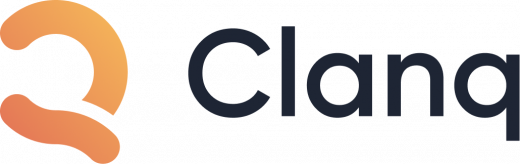
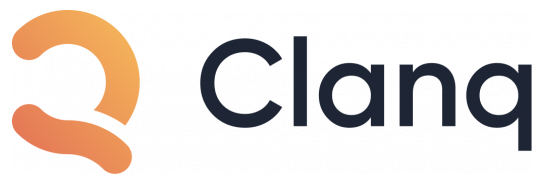
individual background color for footer images

diff --git a/src/app/page.tsx b/src/app/page.tsx
@@ -102,31 +102,37 @@ export default function Home() {
                         src: starrzIcon,
                         alt: 'starrz',
                         href: 'https://starzz.eu/',
+                        background: 'light',
                     },
                     {
                         src: car4sportsIcon,
                         alt: 'Car4Sports',
                         href: 'https://car4sports.de/',
+                        background: 'light',
                     },
                     {
                         src: dsaIcon,
                         alt: 'Deutsche Streaming Allianz',
                         href: 'https://deutsche-streaming-allianz.com/',
+                        background: 'none',
                     },
                     {
                         src: footbaoIcon,
                         alt: 'footbao',
                         href: 'https://play.google.com/store/apps/details?id=world.footbao.footbao&gl=DE',
+                        background: 'light',
                     },
                     {
                         src: clanqIcon,
                         alt: 'Clanq',
                         href: 'https://www.clanq.de/',
+                        background: 'light',
                     },
                     {
                         src: racematesIcon,
                         alt: 'Racemates',
                         href: 'https://racemates-nft.com/',
+                        background: 'none',
                     },
                 ]}
                 footerLinks={[

diff --git a/src/components/Footer.tsx b/src/components/Footer.tsx
@@ -8,7 +8,7 @@ type FooterProps = {
     copyrightHolder: string
     footerLinks: FooterLinksProps[]
     logo?: Icon
-    sponsors?: Icon[]
+    sponsors?: (Icon & { background: 'light' | 'dark' | 'none' })[]
     theme?: 'blue' | 'red' | 'dark'
 }
 
@@ -74,6 +74,7 @@ const Footer: FC<FooterProps> = ({
                                         logo={sponsor}
                                         theme={theme}
                                         key={sponsor.href}
+                                        background={sponsor.background}
                                     />
                                 </li>
                             )
@@ -140,10 +141,11 @@ const FooterColumn: FC<
     )
 }
 
-const Sponsors: FC<SponsorProps & { theme: 'blue' | 'red' | 'dark' }> = ({
-    logo,
-    theme,
-}) => {
+const Sponsors: FC<
+    SponsorProps & { theme: 'blue' | 'red' | 'dark' } & {
+        background: 'light' | 'dark' | 'none'
+    }
+> = ({ background, logo, theme }) => {
     return (
         <div className="px-4 py-2">
             <Link
@@ -151,7 +153,7 @@ const Sponsors: FC<SponsorProps & { theme: 'blue' | 'red' | 'dark' }> = ({
                 icon={{ src: logo.src, alt: logo.alt }}
                 arialabel={logo.alt}
                 theme={theme}
-                background="light"
+                background={background}
             />
         </div>
     )
